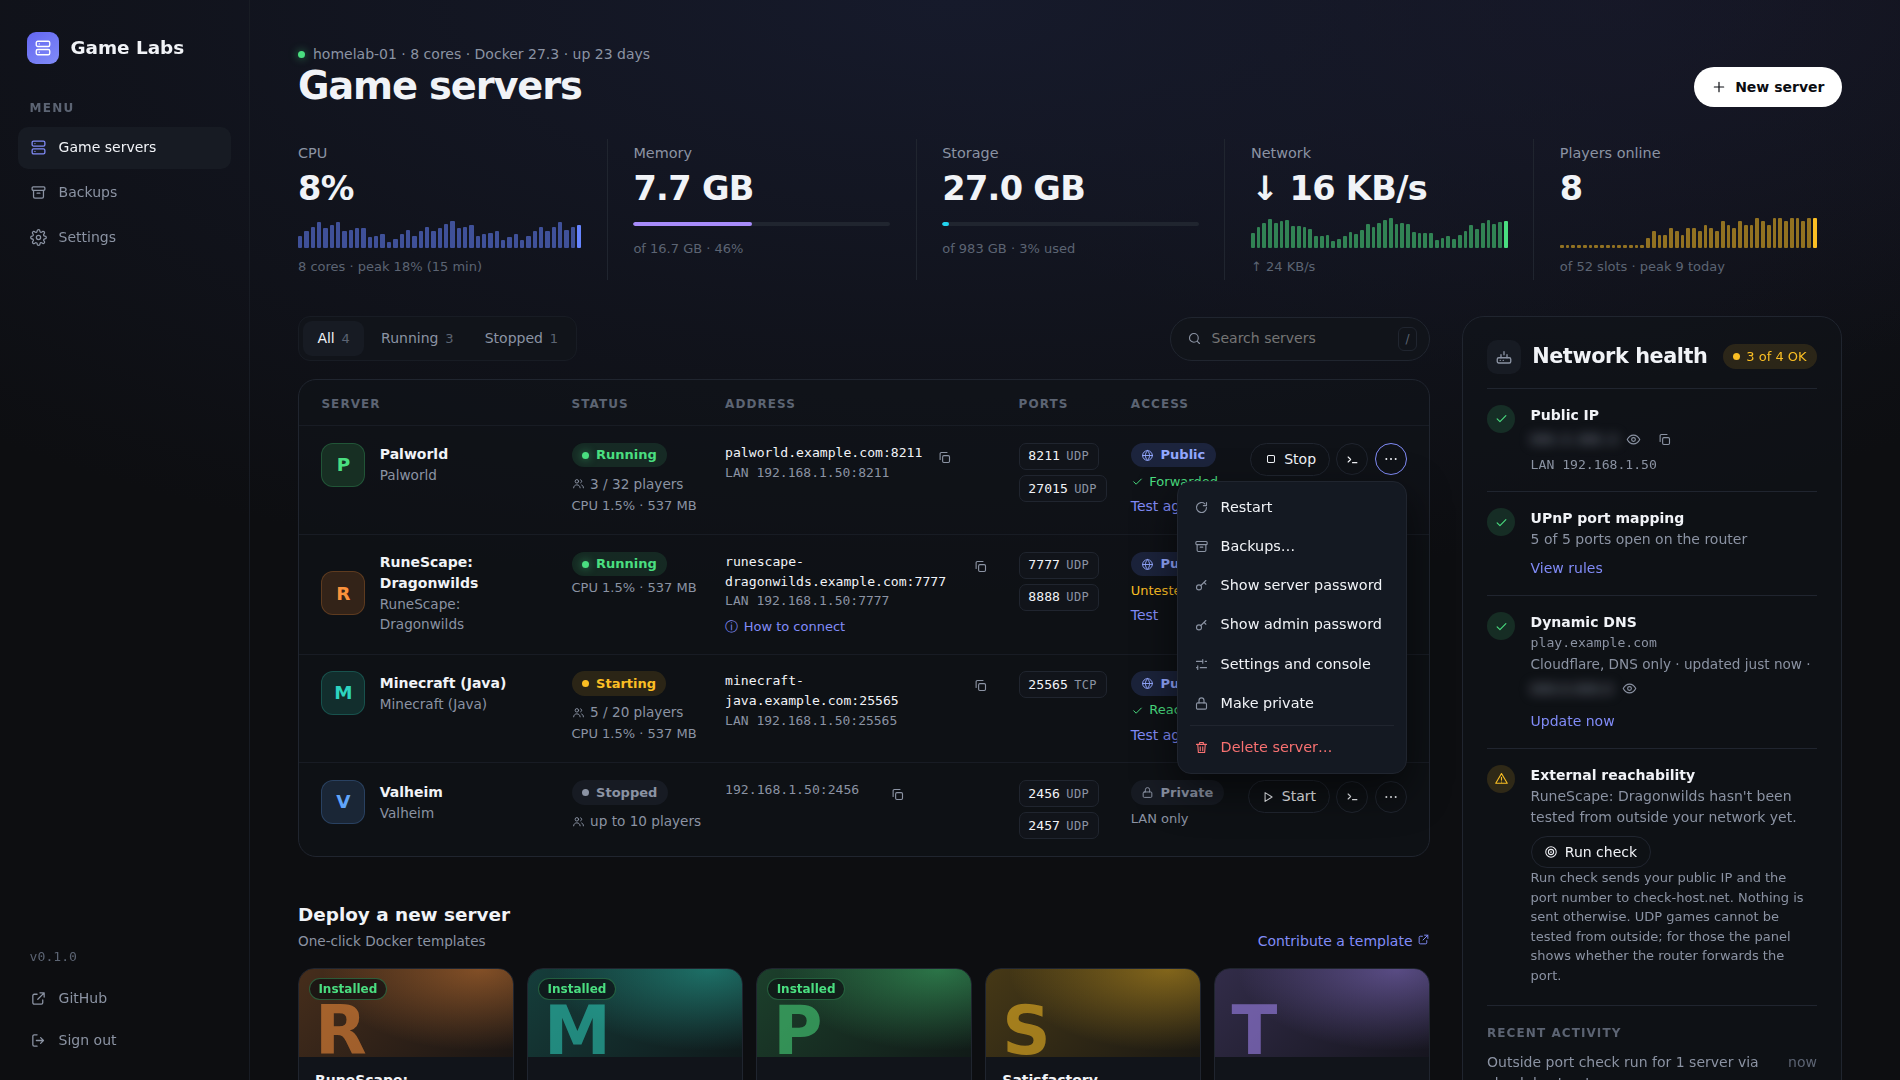
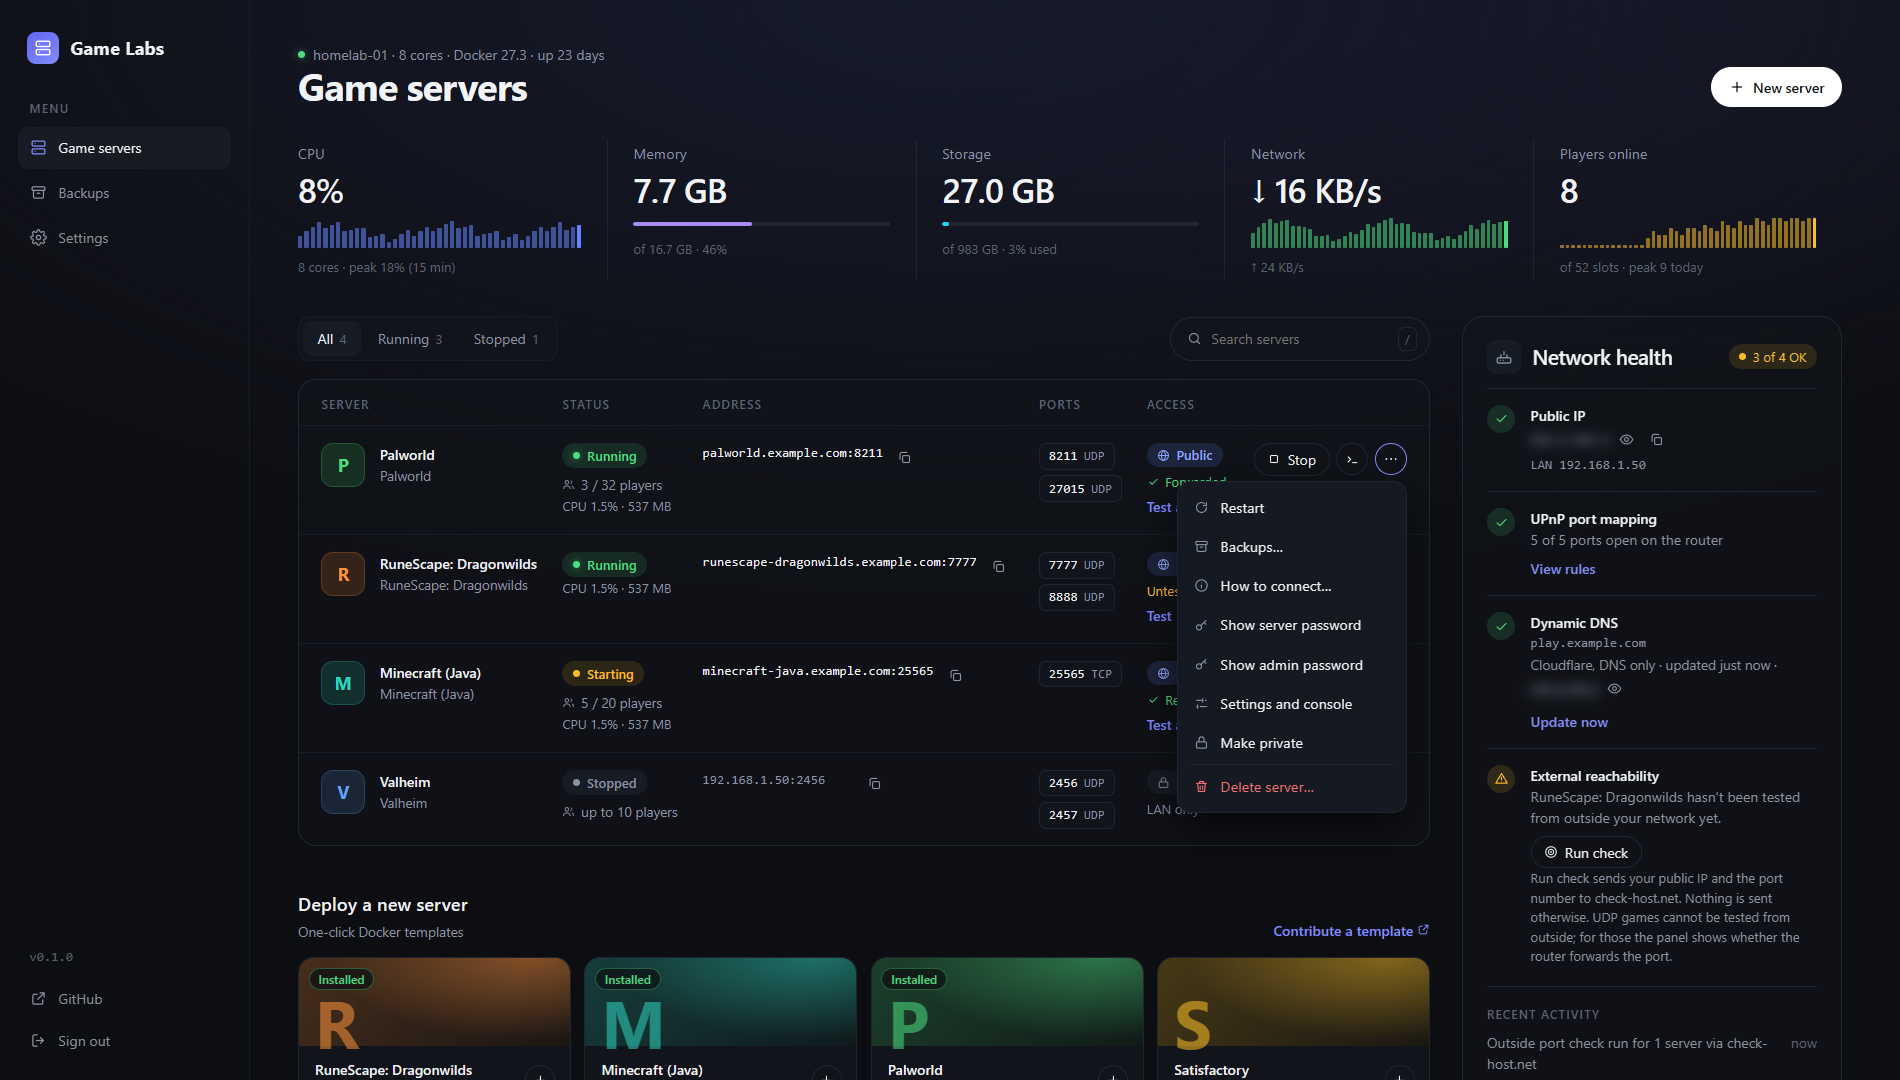
Regenerate the README screenshots for the new layout
The backups screenshot is unchanged: that page did not change.

diff --git a/docs/capture-screenshots.ts b/docs/capture-screenshots.ts
@@ -115,7 +115,7 @@ await page.waitForTimeout(1500);
 await page.reload();
 await page.getByRole("heading", { name: "Game servers" }).waitFor();
 await page.waitForTimeout(2500);
-await shot("dashboard");
+await shot("dashboard", { fullPage: true });
 
 // The "..." menu, open on the first row.
 await row("Palworld").getByRole("button", { name: /More actions/ }).click();
@@ -123,7 +123,7 @@ await page.getByRole("menu").waitFor();
 await shot("row-menu");
 await page.keyboard.press("Escape");
 
-// A laptop-sized window: the Network health panel moves under the table (on a phone each server becomes a card).
+// A laptop-sized window: the Network health panel stays beside the table, a little narrower (below 1300px it moves under the table, and on a phone each server becomes a card).
 await page.setViewportSize({ width: 1440, height: 900 });
 await page.waitForTimeout(500);
 await shot("dashboard-1440", { fullPage: true });
